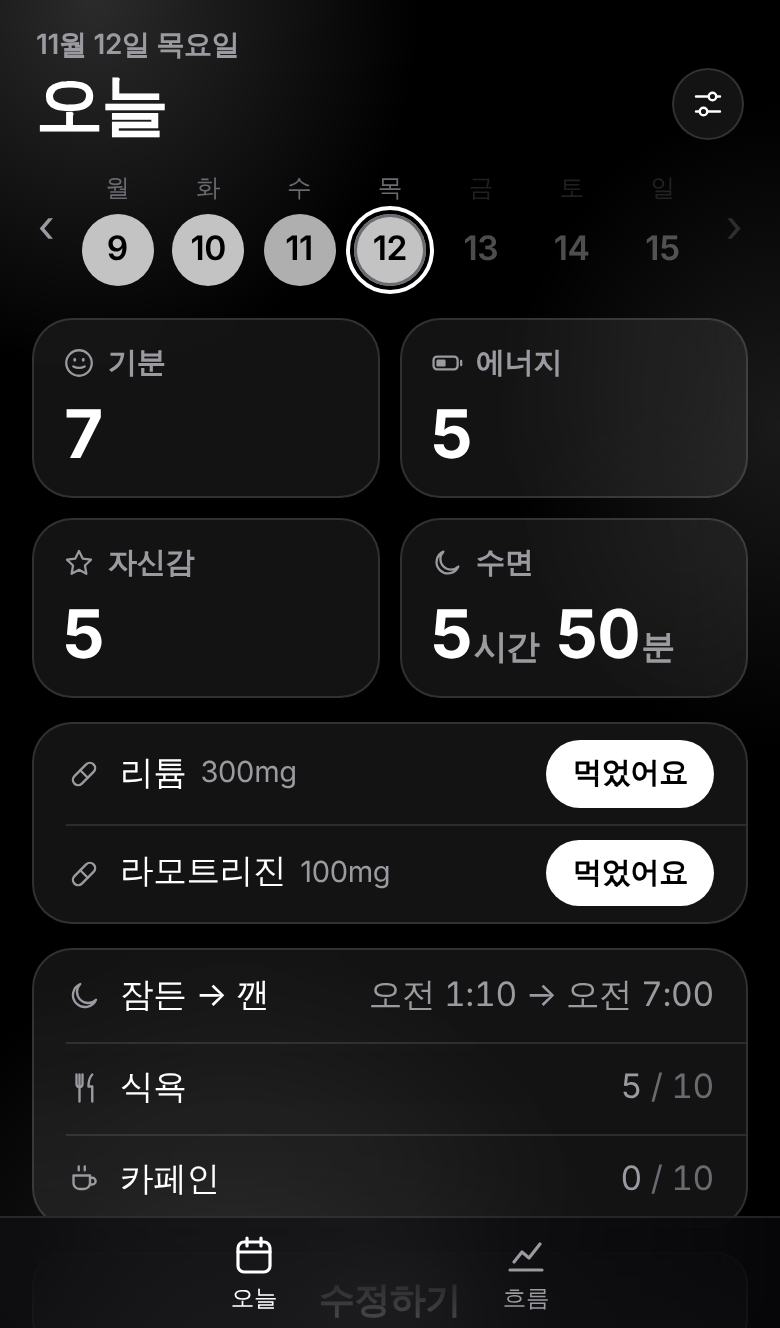
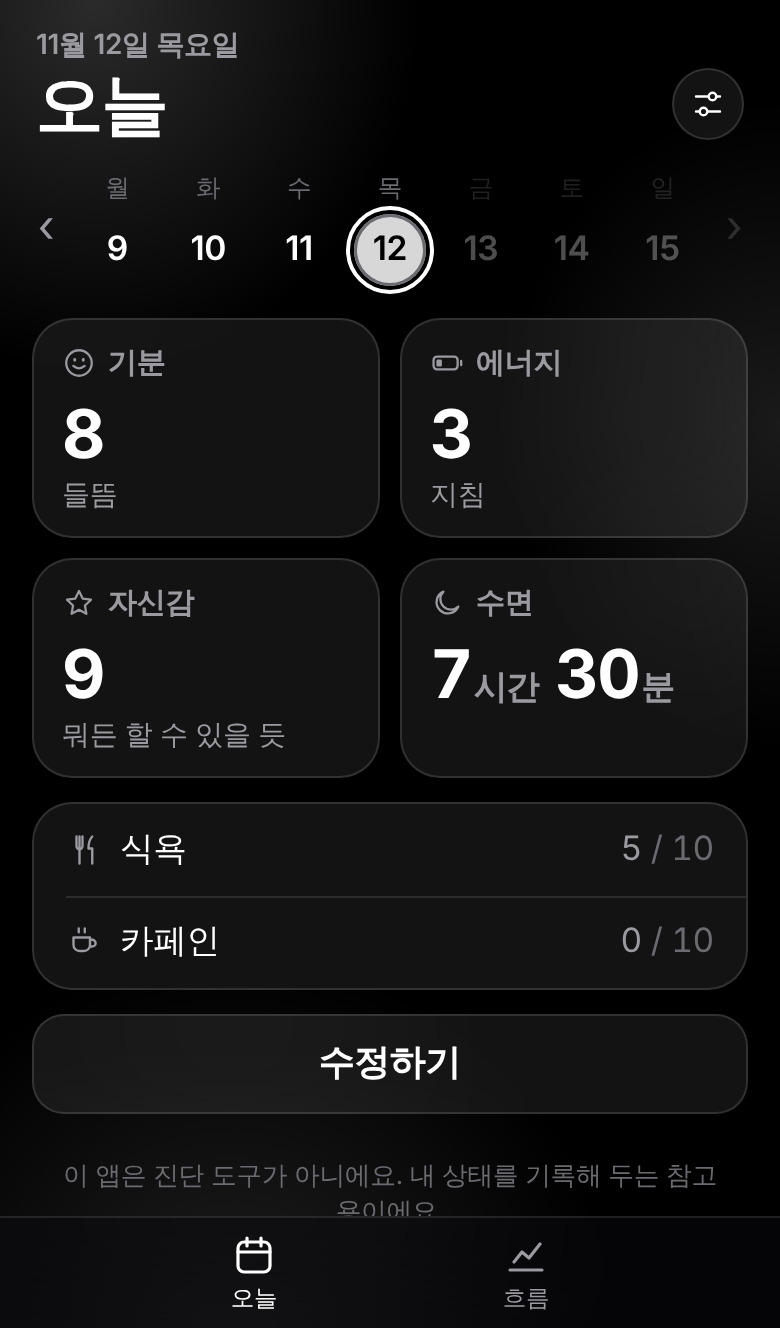
Tide: name each mood, energy and confidence value; drop asleep-awake row
Claude-Session: https://claude.ai/code/session_01Du4KAy7crrN67i73oW7iBF

diff --git a/mood/app.css b/mood/app.css
@@ -230,3 +230,8 @@ ol.steps li { margin: 3px 0; }
 
 .toast { position: fixed; left: 50%; bottom: calc(var(--safe-b) + 84px); transform: translate(-50%, 16px); background: var(--ink); color: var(--ink-inv); padding: 10px 18px; border-radius: 999px; font-size: calc(14px * var(--fs, 1.12)); font-weight: 600; opacity: 0; pointer-events: none; transition: opacity .2s, transform .2s; z-index: 30; white-space: nowrap; }
 .toast.show { opacity: 1; transform: translate(-50%, 0); }
+
+/* 숫자에 붙는 이름 */
+.slv { display: flex; align-items: baseline; gap: 9px; }
+.nm { color: var(--muted); font-size: calc(13px * var(--fs, 1.12)); }
+.tile .nm { margin-top: 1px; font-size: calc(12.5px * var(--fs, 1.12)); white-space: nowrap; overflow: hidden; text-overflow: ellipsis; }

diff --git a/mood/sw.js b/mood/sw.js
@@ -1,6 +1,6 @@
 // 오프라인에서도 열리도록 앱 파일을 저장해 둔다.
 // 인터넷이 될 때는 항상 최신 파일을 먼저 받아오고, 안 될 때만 저장본을 쓴다.
-const CACHE = 'tide-v8';
+const CACHE = 'tide-v9';
 const FILES = ['./', 'index.html', 'app.css', 'app.js', 'manifest.webmanifest',
   'icons/icon-180.png', 'icons/icon-192.png', 'icons/icon-512.png'];
 
